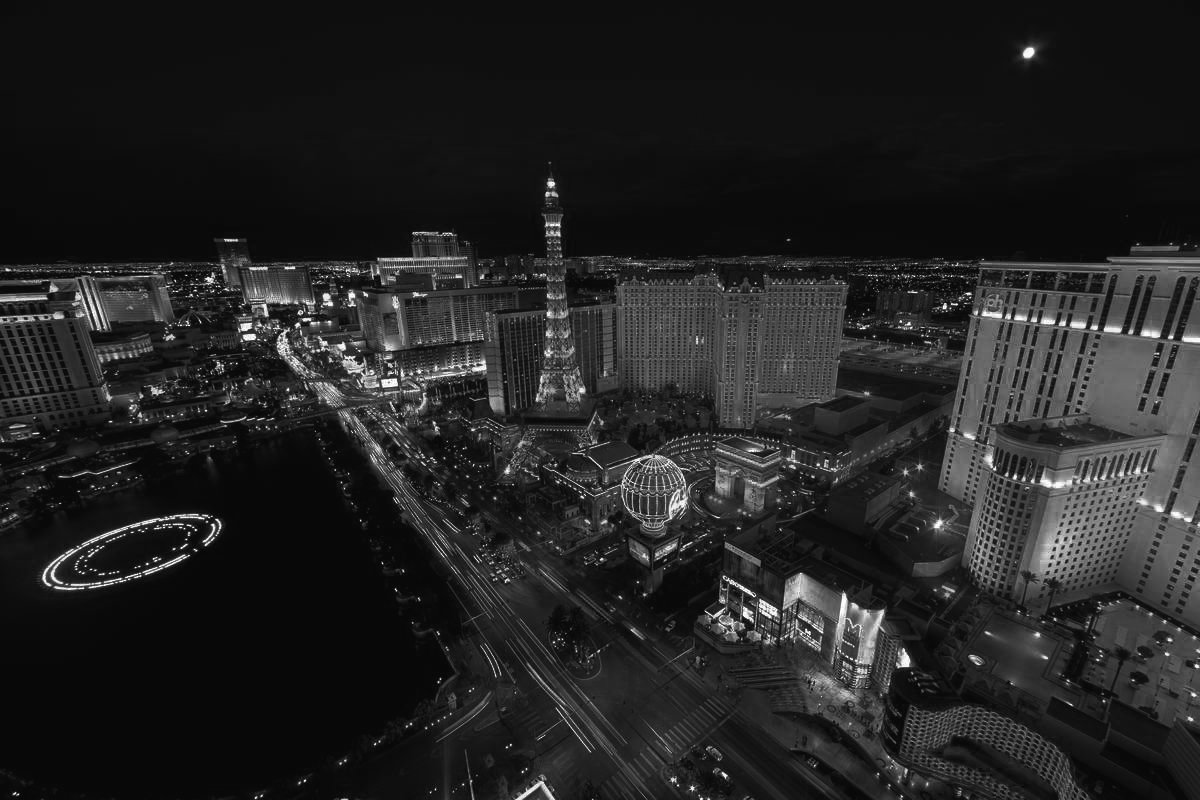
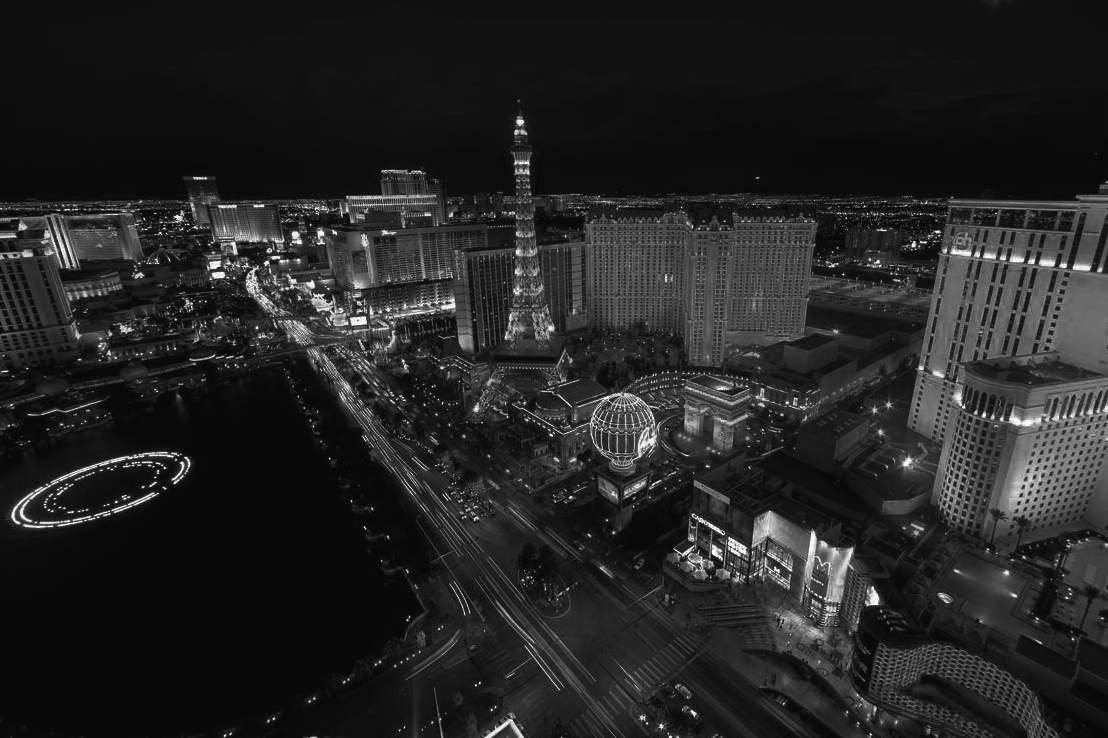
home images & profile splash highlight

diff --git a/datausa/static/css/site.css b/datausa/static/css/site.css
@@ -562,7 +562,7 @@ body.search {
     width: 100vw;
     height: 100vh;
     background-repeat: no-repeat;
-    background-position: 50% 30%;
+    background-position: 50% 0%;
     background-position: center center;
     background-attachment: fixed;
     background-repeat: no-repeat;
@@ -1068,9 +1068,9 @@ body.home {
               top: 0;
               width: 100%;
               height: 100vh;
-              background-image: url('/static/img/home/bg/4.jpg');
+              background-image: url('/static/img/home/bg/6.jpg');
               background-repeat: no-repeat;
-              background-position: 50% 30%;
+              background-position: 50% 0%;
               background-size: cover;
               z-index: -10; }
               body.home .bg .strip {
@@ -1197,16 +1197,17 @@ body.home {
                 top: 0;   }
 }
   @media all and (min-width: 416px) {
-    body.home .home-container {
-      position: fixed;
-      left: 0;
-      top: 0;
-      bottom: 0;
-      right: 0;   }
-      body.home nav li {
-        display: none;   }
     body.home #menu {
-      background-color: rgba(255, 255, 255, 0);
+      background-color: rgba(34, 34, 34, 0.75);   }
+      body.home .home-container {
+        position: fixed;
+        left: 0;
+        top: 0;
+        bottom: 0;
+        right: 0;   }
+        body.home nav li {
+          display: none;   }
+    body.home #menu {
       height: 98.5vh;   }
       body.home #menu footer {
         background-color: rgba(255, 255, 255, 0);   }
@@ -1682,10 +1683,10 @@ body.profile nav, body.story nav {
         -moz-background-size: cover;
         -o-background-size: cover;
         background-size: cover;
-        -webkit-filter: saturate(1.25) brightness(1) contrast(1.25);
-        -moz-filter: saturate(1.25) brightness(1) contrast(1.25);
-        -o-filter: saturate(1.25) brightness(1) contrast(1.25);
-        filter: saturate(1.25) brightness(1) contrast(1.25);
+        -webkit-filter: saturate(1.1) brightness(1.3) contrast(1.1);
+        -moz-filter: saturate(1.1) brightness(1.3) contrast(1.1);
+        -o-filter: saturate(1.1) brightness(1.3) contrast(1.1);
+        filter: saturate(1.1) brightness(1.3) contrast(1.1);
         z-index: 0;
         -webkit-transition: all 0.5s;
         -moz-transition: all 0.5s;
@@ -2086,6 +2087,16 @@ body.profile nav, body.story nav {
             body.profile #splash #scroll-btn.visible .mouse-text,
             body.story #splash #scroll-btn.visible .mouse-text {
               opacity: 1; }
+      body.profile #splash .d3plus_coordinates.highlight,
+      body.story #splash .d3plus_coordinates.highlight {
+        stroke: white !important;
+        stroke-width: 19px !important;
+        stroke-opacity: 1 !important;
+        fill: white !important;
+        opacity: 1 !important; }
+        body.profile #splash .d3plus_coordinates.highlight .d3plus_data,
+        body.story #splash .d3plus_coordinates.highlight .d3plus_data {
+          fill: white !important; }
 body.profile #title-bar, body.story #title-bar {
   -webkit-justify-content: center;
   -moz-justify-content: center;

diff --git a/datausa/assets/scss/elements/_profile.scss b/datausa/assets/scss/elements/_profile.scss
@@ -8,7 +8,7 @@ body.profile, body.story {
     &.#{$page} {
       // #splash .content {
       //   background-color: map-get($bg-colors, $page);
-      // }
+      // } 
 
       #profile-nav {
         background-color: map-get($d-bg-colors, $page);
@@ -338,8 +338,8 @@ body.profile, body.story {
       top: 0;
       width: 100%;
       @include background-stretch();
-      //@include filter(saturate(0) brightness(1.15) contrast(1.55));
-      @include filter(saturate(1.25) brightness(1) contrast(1.25));
+      //@include filter(saturate(1.25) brightness(1) contrast(1.25));
+      @include filter(saturate(1.1) brightness(1.3) contrast(1.1));
       z-index: 0;
       @include transition(all 0.5s);
 
@@ -690,6 +690,18 @@ body.profile, body.story {
       }
 
     }
+
+    .d3plus_coordinates.highlight {
+      stroke: white !important;
+      stroke-width: 19px !important;
+      stroke-opacity: 1 !important;
+      fill: white !important;
+      opacity: 1 !important;
+
+       .d3plus_data {
+         fill: white !important;
+       }
+     }
 
   }
 

diff --git a/datausa/assets/scss/elements/_home.scss b/datausa/assets/scss/elements/_home.scss
@@ -35,9 +35,9 @@ body.home {
       top: 0;
       width: 100%;
       height: 100vh;
-      background-image: url('/static/img/home/bg/4.jpg');
+      background-image: url('/static/img/home/bg/6.jpg');
       background-repeat: no-repeat;
-      background-position:  50% 30%;
+      background-position:  50% 0%;
       background-size: cover;
       z-index: -10;
     }
@@ -167,6 +167,10 @@ body.home {
 
   @media all and (min-width: 416px){
 
+    #menu {
+      background-color: rgba(34, 34, 34, 0.75);
+    }
+
     .bg {
       // margin-left: $nav-width;
     }
@@ -186,8 +190,6 @@ body.home {
     }
 
     #menu {
-      background-color: rgba(255,255,255,0);
-      //rgba(34,34,32,0.75)
       height: 98.5vh;
 
       footer {

diff --git a/datausa/assets/scss/elements/_search.scss b/datausa/assets/scss/elements/_search.scss
@@ -117,7 +117,7 @@ body.search {
     width: 100vw;
     height: 100vh;
     background-repeat: no-repeat;
-    background-position: 50% 30%;
+    background-position: 50% 0%;
     // background: url("/static/img/home/bg/1.jpg") no-repeat 0 0;
     @include background-stretch();
   }

diff --git a/datausa/assets/scss/elements/_nav.scss b/datausa/assets/scss/elements/_nav.scss
@@ -13,7 +13,7 @@ body {
       &:before {
         // background: #fff;
       }
-    }
+    } 
 
     .home-sum {
       display: none;

diff --git a/datausa/general/views.py b/datausa/general/views.py
@@ -20,6 +20,6 @@ def before_request():
 @mod.route("/")
 def home():
     g.page_type = "home"
-    bg_imgs = randint(1,4)
+    bg_imgs = randint(1,7)
     return render_template("general/home.html", bg_imgs = bg_imgs)
  
